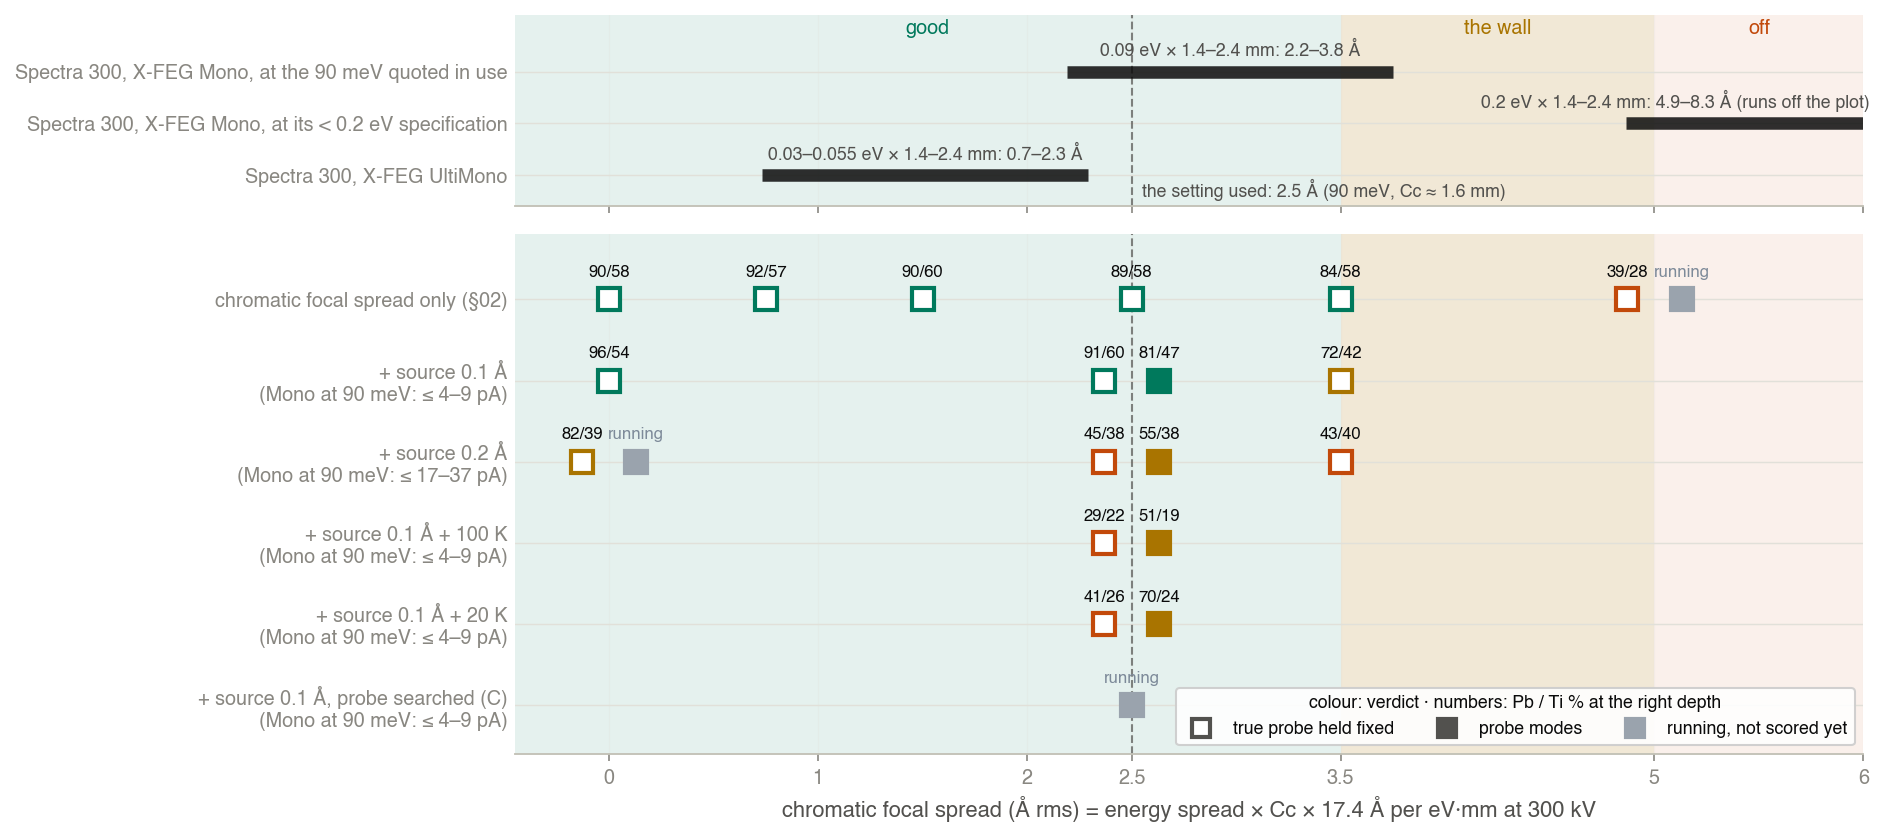
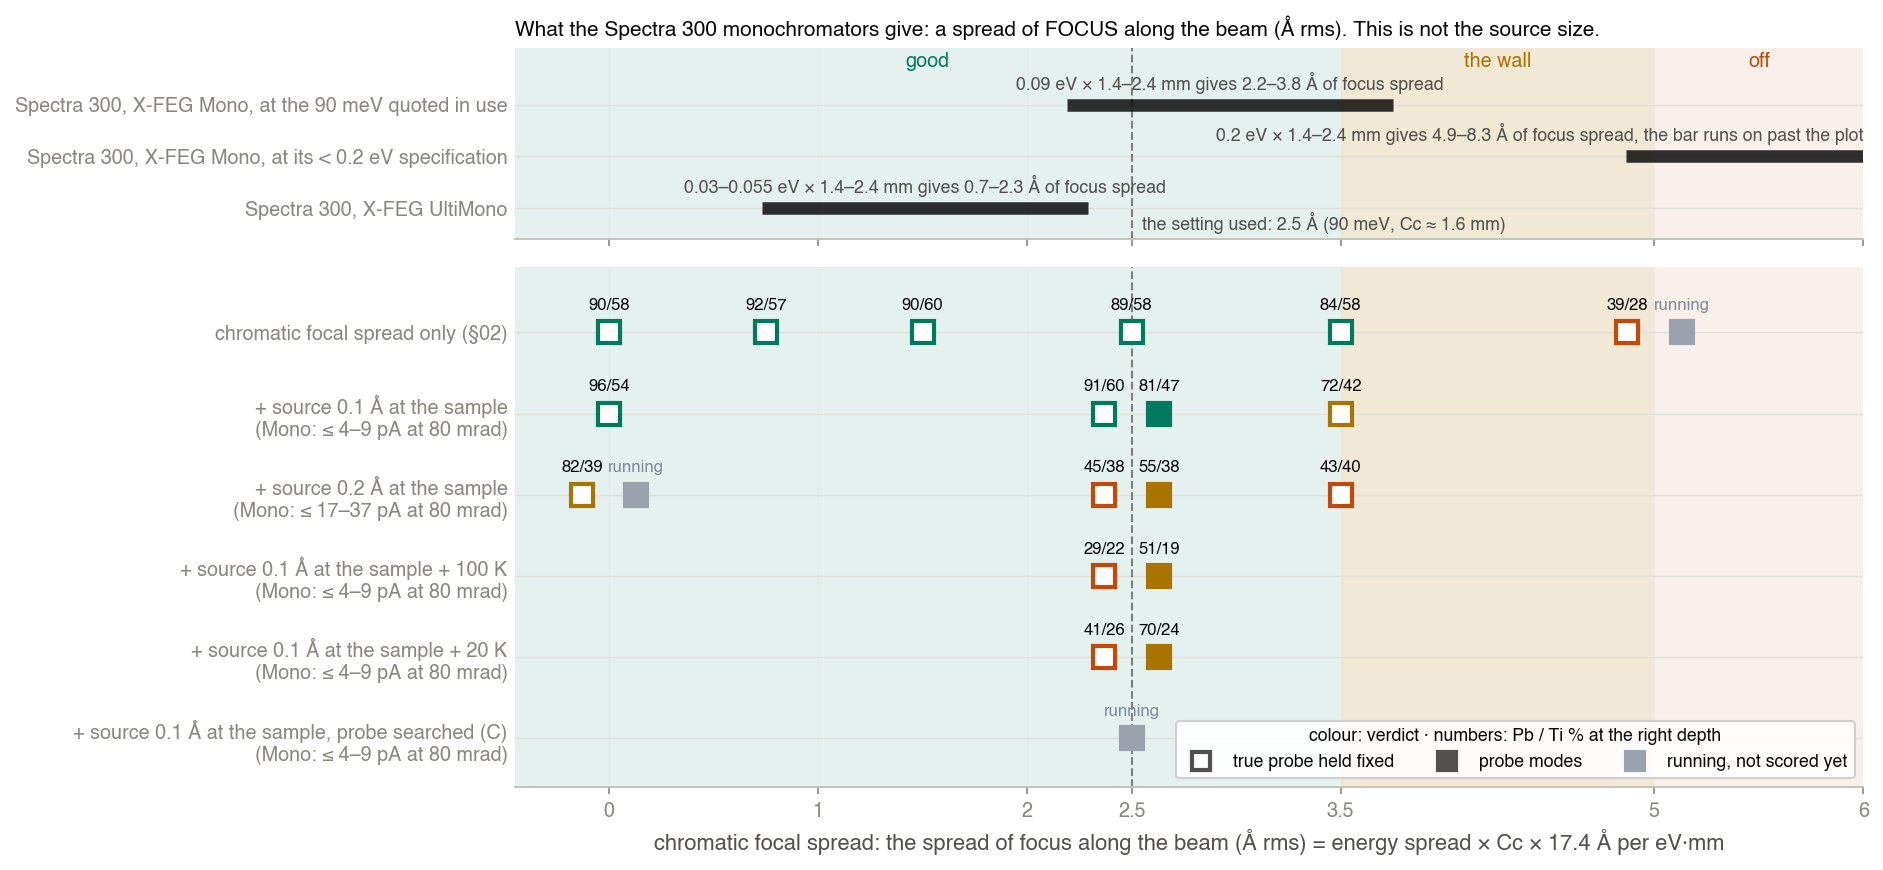
Coherence Wall page v11: focus spread and source size labelled apart
The monochromator bars are a spread of focus along the beam, not a source size;
the where-it-works figure now says so in its title, bar labels and caption, and
each source row names its size at the sample and the Mono's current for it.

diff --git a/aberration_experiment/page/mono_2026-10-12.html b/aberration_experiment/page/mono_2026-10-12.html
@@ -332,7 +332,10 @@
     <figure class="wide">
       {{FIG_WHERE}}
       <figcaption><span class="fig-name">fig_where_it_works.png</span>
-        <div class="howto"><b>How to read it</b> Where it works. Top: the chromatic focal spread the Spectra 300 monochromators give
+        <div class="howto"><b>How to read it</b> Where it works. Two different Å on one plot: the bars and the x axis are a
+          spread of <b>focus along the beam</b> (Å rms); the source size in each row is a <b>sideways blur at the sample</b>
+          (Å FWHM), which on the Mono is set by the probe current (§06), not by the monochromator. Top: the chromatic focal
+          spread the Spectra 300 monochromators give
           (from §06): the Mono at the 90 meV quoted in use and at its 0.2 eV specification, and the UltiMono. Below: every
           run with the source and vibration put back, at its chromatic focal spread, one row per setting. Square colour: the verdict
           (green good, amber okay, red off). Hollow: the true probe held fixed; filled: probe modes. Numbers: Pb / Ti % at

diff --git a/analysis/make_mono_page.py b/analysis/make_mono_page.py
@@ -205,7 +205,8 @@ def fig_instruments(recs, man):
     ax.set_xscale("log"); ax.set_xlim(lo, hi); ax.set_ylim(-1.2, len(ins) - 0.1)
     ax.set_yticks(range(len(ins))); ax.set_yticklabels([s["name"] for s in ins[::-1]], fontsize=9.5)
     ax.set_xticks([0.5, 1, 2, 3.5, 5, 10, 20, 40]); ax.set_xticklabels(["0.5", "1", "2", "3.5", "5", "10", "20", "40"])
-    ax.set_xlabel("chromatic focal spread (Å rms) = energy spread × Cc × " + f"{FS_PER_EV_MM:.1f} Å per eV·mm at 300 kV")
+    ax.set_xlabel("chromatic focal spread: the spread of focus along the beam (Å rms) = energy spread × Cc × "
+                  + f"{FS_PER_EV_MM:.1f} Å per eV·mm")
     ax.spines[["top", "right", "left"]].set_visible(False); ax.tick_params(axis="y", length=0); ax.grid(axis="x", alpha=.25, lw=.6)
     return arm.save(fig, "fig_instruments.png")
 
@@ -298,9 +299,13 @@ def fig_where(recs, man):
     for i, (name, d0, d1, cc) in enumerate(bars[::-1]):
         a, b = focal_spread(d0, cc[0]), focal_spread(d1, cc[1])
         at.plot([a, min(b, hi)], [i, i], "-", color=arm.INK, lw=6, solid_capstyle="butt", alpha=.85, zorder=4)
-        lab = f"{d0:g}{'' if d0 == d1 else '–' + format(d1, 'g')} eV × {cc[0]:g}–{cc[1]:g} mm: {a:.1f}–{b:.1f} Å"
-        at.text(min((a + min(b, hi)) / 2, hi - 0.9), i + 0.22, lab + (" (runs off the plot)" if b > hi else ""),
-                ha="center", va="bottom", fontsize=8.5, color=arm.INK2)
+        lab = f"{d0:g}{'' if d0 == d1 else '–' + format(d1, 'g')} eV × {cc[0]:g}–{cc[1]:g} mm gives {a:.1f}–{b:.1f} Å of focus spread"
+        if b > hi:
+            at.text(hi, i + 0.22, lab + ", the bar runs on past the plot", ha="right", va="bottom", fontsize=8.5, color=arm.INK2)
+        else:
+            at.text((a + b) / 2, i + 0.22, lab, ha="center", va="bottom", fontsize=8.5, color=arm.INK2)
+    at.set_title("What the Spectra 300 monochromators give: a spread of FOCUS along the beam (Å rms). This is not the "
+                 "source size.", loc="left", fontsize=10, color=arm.INK)
     at.set_ylim(-0.6, len(bars) + 0.1); at.set_yticks(range(len(bars)))
     at.set_yticklabels([b[0] for b in bars[::-1]], fontsize=9.5)
     n = len(WHERE_ROWS)
@@ -328,12 +333,13 @@ def fig_where(recs, man):
         for d in (0.1, 0.2):
             if f"source {d:g} Å" in lab:
                 lo, hi = mono_current_range(d)
-                return f"{lab}\n(Mono at 90 meV: ≤ {lo:.0f}–{hi:.0f} pA)"
+                return lab.replace(f"source {d:g} Å", f"source {d:g} Å at the sample") + f"\n(Mono: ≤ {lo:.0f}–{hi:.0f} pA at 80 mrad)"
         return lab
     ab.set_ylim(-0.6, n - 0.2); ab.set_yticks(range(n))
     ab.set_yticklabels([ylab(r[0]) for r in WHERE_ROWS[::-1]], fontsize=9.5)
     ab.set_xlim(lo, hi); ab.set_xticks([0, 1, 2, 2.5, 3.5, 5, 6]); ab.set_xticklabels(["0", "1", "2", "2.5", "3.5", "5", "6"])
-    ab.set_xlabel("chromatic focal spread (Å rms) = energy spread × Cc × " + f"{FS_PER_EV_MM:.1f} Å per eV·mm at 300 kV")
+    ab.set_xlabel("chromatic focal spread: the spread of focus along the beam (Å rms) = energy spread × Cc × "
+                  + f"{FS_PER_EV_MM:.1f} Å per eV·mm")
     h = [plt.Line2D([], [], ls="", marker="s", ms=9, mec=arm.INK2, mew=2, mfc="white", label="true probe held fixed"),
          plt.Line2D([], [], ls="", marker="s", ms=9, mec=arm.INK2, mew=2, mfc=arm.INK2, label="probe modes"),
          plt.Line2D([], [], ls="", marker="s", ms=9, mec="#9aa3ad", mew=2, mfc="#9aa3ad", label="running, not scored yet")]

diff --git a/aberration_experiment/page/MONO_PAGE.md b/aberration_experiment/page/MONO_PAGE.md
@@ -1,6 +1,9 @@
 # The Coherence Wall page — how to fill it in and republish
 
 PUBLISHED: https://claude.ai/artifact/B7ep8BpAMVdKvrnXywACq3
+- version 11, 2026-10-21: the user read the monochromator bars (Å of focus spread) as source sizes. The where-it-works
+  figure now says so in its title ("a spread of FOCUS along the beam ... not the source size"), bars read "gives x Å of
+  focus spread", rows read "source 0.1 Å at the sample (Mono: ≤ 4-9 pA at 80 mrad)", and its caption names the two Å.
 - version 10, 2026-10-21: "focal spread" renamed "chromatic focal spread" everywhere (ΔE through Cc; ripple and
   lens-current noise named as other, unsimulated causes). New `fig_source_current.png` in §06 (`fig_source`): the gun's
   source image at the sample, d = (2/πα)√(I/B_r V), against probe current at 80 mrad; X-FEG B_r 0.7-1.5e8 (Thermo
